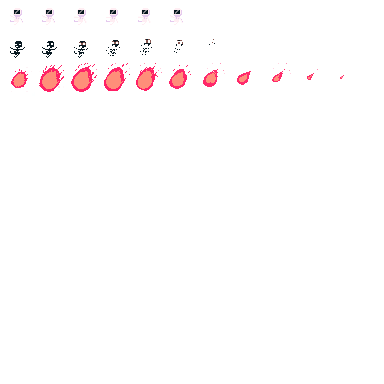
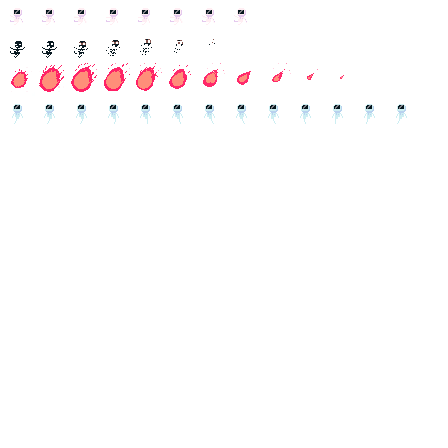
added ghost class and landing animation

diff --git a/apps/myApps/Ksc_PAlpha_Rebuild_0_0_1/src/StrandedAstronaut.h b/apps/myApps/Ksc_PAlpha_Rebuild_0_0_1/src/StrandedAstronaut.h
@@ -1,6 +1,7 @@
 #ifndef STRANDEDASTRONAUT_H
 #define STRANDEDASTRONAUT_H
 #include "Astronaut.h"
+#include "Ghost.h"
 #include "Shell.h"
 #include "ofxXmlSettings.h"
 #include <vector>
@@ -17,7 +18,30 @@ static animation_t floating =
 	-1,	/* .finalindex		(int) - the index of the final tile to draw when the animation finishes. -1 is the default so total_frames-1 will be the last frame.				*/
 	1	/* .frameskip		(int) - the incrementation of each frame. 1 should be set by default. If you wanted the animation to play backwards you could set this to -1, etc.	*/
 };
-
+static animation_t nautDeath =
+{	14,	/* .index			(int) - this is the index of the first animation frame. indicies start at 0 and go left to right, top to bottom by tileWidth on the spriteSheet		*/
+	0,	/* .frame			(int) - this is the current frame. It's an internal variable and should always be set to 0 at init													*/
+	12,	/* .totalframes		(int) - the animation length in frames																												*/
+	1,	/* .width			(int) - the width of each animation frame in tiles																									*/
+	1,	/* .height			(int) - the height of each animation frame in tiles																									*/
+	75,	/* .frameduration	(unsigned int) - how many milliseconds each frame should be on screen. Less = faster																*/
+	0,	/* .nexttick		(unsigned int) - the next time the frame should change. based on frame duration. This is an internal variable and should always be set to 0 at init	*/
+	1,	/* .loops			(int) - the number of loops to run. -1 equals infinite. This can be adjusted at runtime to pause animations, etc.									*/
+	-1,	/* .finalindex		(int) - the index of the final tile to draw when the animation finishes. -1 is the default so total_frames-1 will be the last frame.				*/
+	1	/* .frameskip		(int) - the incrementation of each frame. 1 should be set by default. If you wanted the animation to play backwards you could set this to -1, etc.	*/
+};
+static animation_t nautFire =
+{	28,	/* .index			(int) - this is the index of the first animation frame. indicies start at 0 and go left to right, top to bottom by tileWidth on the spriteSheet		*/
+	0,	/* .frame			(int) - this is the current frame. It's an internal variable and should always be set to 0 at init													*/
+	12,	/* .totalframes		(int) - the animation length in frames																												*/
+	1,	/* .width			(int) - the width of each animation frame in tiles																									*/
+	1,	/* .height			(int) - the height of each animation frame in tiles																									*/
+	75,	/* .frameduration	(unsigned int) - how many milliseconds each frame should be on screen. Less = faster																*/
+	0,	/* .nexttick		(unsigned int) - the next time the frame should change. based on frame duration. This is an internal variable and should always be set to 0 at init	*/
+	1,	/* .loops			(int) - the number of loops to run. -1 equals infinite. This can be adjusted at runtime to pause animations, etc.									*/
+	-1,	/* .finalindex		(int) - the index of the final tile to draw when the animation finishes. -1 is the default so total_frames-1 will be the last frame.				*/
+	1	/* .frameskip		(int) - the incrementation of each frame. 1 should be set by default. If you wanted the animation to play backwards you could set this to -1, etc.	*/
+};
 class StrandedAstronaut : public Astronaut {
 public:
     enum name {UNNAMED, TUTORIAL_ONE, TUTORIAL_TWO, TUTORIAL_THREE};
@@ -50,6 +74,8 @@ public:
     bool FOLLOWING_PLAYER;
     bool FOLLOWING_ASTRONAUT;
     bool THE_END;
+    bool DYING;
+    bool GHOSTLY;
     bool CAN_TALK;
     bool CAN_HIT_ASTRONAUTS;
     bool RELEASED;
@@ -66,6 +92,8 @@ public:
     int spring_spacing;
     int released_spacing;
     int no_spacing;
+
+    animation_t flameAnim;
 
     name thisAstronautIs;
 protected:

diff --git a/apps/myApps/Ksc_PAlpha_Rebuild_0_0_1/src/GameScreen.cpp b/apps/myApps/Ksc_PAlpha_Rebuild_0_0_1/src/GameScreen.cpp
@@ -71,8 +71,8 @@ void GameScreen::setup() {
     planetRenderer = new ofxSpriteSheetRenderer(1, 10000, 0, 128); //declare a new renderer with 1 layer, 10000 tiles per layer, default layer of 0, tile size of 32
     planetRenderer->loadTexture("ART/planets.png", 512, GL_NEAREST); // load the spriteSheetExample.png texture of size 256x256 into the sprite sheet. set it's scale mode to nearest since it's pixel art
 
-    nautRenderer = new ofxSpriteSheetRenderer(1, 10000, 0, 64);             /// declare a new renderer with 1 layer, 10000 tiles per layer, default layer of 0, tile size of 32
-    nautRenderer->loadTexture("ART/nauts.png", 512, GL_NEAREST);                /// load the spriteSheetExample.png texture of size 256x256 into the sprite sheet. set it's scale mode to nearest since it's pixel art
+    nautRenderer = new ofxSpriteSheetRenderer(1, 10000, 0, 32);             /// declare a new renderer with 1 layer, 10000 tiles per layer, default layer of 0, tile size of 32
+    nautRenderer->loadTexture("ART/nauts2.png", 448, GL_NEAREST);                /// load the spriteSheetExample.png texture of size 256x256 into the sprite sheet. set it's scale mode to nearest since it's pixel art
 
     ofEnableAlphaBlending(); // turn on alpha blending. important!
 
@@ -245,6 +245,7 @@ void GameScreen::update() {
             strandedAstronaut[i]->update();
 
             if (strandedAstronaut[i]->IS_DEAD) {
+                ghosts.push_back(new Ghost(strandedAstronaut[i]->pos));
                 AN_ASTRONAUT_DIED = true;
                 HIT_PAUSE = true;
                 if (strandedAstronaut[i]->FOLLOWING_PLAYER) {
@@ -266,6 +267,11 @@ void GameScreen::update() {
                 gui[i]->pos.interpolate(player.pos, 10 * dt);
             }
         }
+
+        for(int i = 0; i < ghosts.size(); i++){
+            ghosts[i]->update();
+        }
+
     camera();
 
     }
@@ -330,8 +336,17 @@ void GameScreen::renderSprites() {
     planetRenderer->update(ofGetElapsedTimeMillis());
     nautRenderer->clear(); // clear the sheet
     for (int i=0; i<strandedAstronaut.size(); i++) {
-        float scaleFactor = 1;
+        float scaleFactor = 2;
+        if (strandedAstronaut[i]->DYING){
+        nautRenderer->addCenteredTile(&strandedAstronaut[i]->flameAnim,strandedAstronaut[i]->pos.x,strandedAstronaut[i]->pos.y,-1,F_NONE,scaleFactor,255,255,255,255);
+        }
+
         nautRenderer->addCenteredTile(&strandedAstronaut[i]->anim,strandedAstronaut[i]->pos.x,strandedAstronaut[i]->pos.y,-1,F_NONE,scaleFactor,255,255,255,255);
+    }
+    for (int i = 0; i<ghosts.size();i++){
+        float scaleFactor = 2;
+        nautRenderer->addCenteredTile(&ghosts[i]->anim,ghosts[i]->pos.x,ghosts[i]->pos.y,-1,F_NONE,scaleFactor,255,255,255,ghosts[i]->opacity);
+        cout << "ADDING GHOST \n";
     }
     nautRenderer->update(ofGetElapsedTimeMillis());
 }

diff --git a/apps/myApps/Ksc_PAlpha_Rebuild_0_0_1/src/Ghost.h b/apps/myApps/Ksc_PAlpha_Rebuild_0_0_1/src/Ghost.h
@@ -1,0 +1,40 @@
+#ifndef GHOST_H
+#define GHOST_H
+#include "Astronaut.h"
+
+static animation_t ghost =
+{	42,	/* .index			(int) - this is the index of the first animation frame. indicies start at 0 and go left to right, top to bottom by tileWidth on the spriteSheet		*/
+	0,	/* .frame			(int) - this is the current frame. It's an internal variable and should always be set to 0 at init													*/
+	13,	/* .totalframes		(int) - the animation length in frames																												*/
+	1,	/* .width			(int) - the width of each animation frame in tiles																									*/
+	1,	/* .height			(int) - the height of each animation frame in tiles																									*/
+	75,	/* .frameduration	(unsigned int) - how many milliseconds each frame should be on screen. Less = faster																*/
+	0,	/* .nexttick		(unsigned int) - the next time the frame should change. based on frame duration. This is an internal variable and should always be set to 0 at init	*/
+	-1,	/* .loops			(int) - the number of loops to run. -1 equals infinite. This can be adjusted at runtime to pause animations, etc.									*/
+	-1,	/* .finalindex		(int) - the index of the final tile to draw when the animation finishes. -1 is the default so total_frames-1 will be the last frame.				*/
+	1	/* .frameskip		(int) - the incrementation of each frame. 1 should be set by default. If you wanted the animation to play backwards you could set this to -1, etc.	*/
+};
+
+class Ghost : public Astronaut
+{
+    public:
+        Ghost();
+        Ghost(ofVec2f _pos);
+
+        int opacity;
+        int opacityMod;
+
+        void setup();
+        void update();
+        void move();
+        void draw();
+
+        bool IS_DEAD;
+
+
+        virtual ~Ghost();
+    protected:
+    private:
+};
+
+#endif // GHOST_H

diff --git a/apps/myApps/Ksc_PAlpha_Rebuild_0_0_1/src/Player.h b/apps/myApps/Ksc_PAlpha_Rebuild_0_0_1/src/Player.h
@@ -127,6 +127,19 @@ static animation_t flame =
 	1	/* .frameskip		(int) - the incrementation of each frame. 1 should be set by default. If you wanted the animation to play backwards you could set this to -1, etc.	*/
 };
 
+static animation_t land =
+{	18,	/* .index			(int) - this is the index of the first animation frame. indicies start at 0 and go left to right, top to bottom by tileWidth on the spriteSheet		*/
+	0,	/* .frame			(int) - this is the current frame. It's an internal variable and should always be set to 0 at init													*/
+	6,	/* .totalframes		(int) - the animation length in frames																												*/
+	1,	/* .width			(int) - the width of each animation frame in tiles																									*/
+	1,	/* .height			(int) - the height of each animation frame in tiles																									*/
+	100,	/* .frameduration	(unsigned int) - how many milliseconds each frame should be on screen. Less = faster																*/
+	0,	/* .nexttick		(unsigned int) - the next time the frame should change. based on frame duration. This is an internal variable and should always be set to 0 at init	*/
+	1,	/* .loops			(int) - the number of loops to run. -1 equals infinite. This can be adjusted at runtime to pause animations, etc.									*/
+	-1,	/* .finalindex		(int) - the index of the final tile to draw when the animation finishes. -1 is the default so total_frames-1 will be the last frame.				*/
+	1	/* .frameskip		(int) - the incrementation of each frame. 1 should be set by default. If you wanted the animation to play backwards you could set this to -1, etc.	*/
+};
+
 class Player : public Astronaut {
 public:
     Player();

diff --git a/apps/myApps/Ksc_PAlpha_Rebuild_0_0_1/src/StrandedAstronaut.cpp b/apps/myApps/Ksc_PAlpha_Rebuild_0_0_1/src/StrandedAstronaut.cpp
@@ -53,13 +53,16 @@ StrandedAstronaut::StrandedAstronaut(ofVec2f _pos, name _name, std::vector<Gravi
     USING_GRAVITY               = true;
     CAN_TALK                    = true;
     DRAW_MESSAGE                = false;
+    DYING                       = false;
     IS_DEAD                     = false;
+    GHOSTLY                     = false;
     THE_END                     = false;
     CAN_HIT_ASTRONAUTS          = false;
     RELEASED                    = false;
 
     type = "strandedastronaut";
     anim = floating;
+    flameAnim = nautFire;
 
 	ofEnableAlphaBlending();
 	setName(_name);
@@ -102,6 +105,11 @@ void StrandedAstronaut::update() {
         displayMessage();
     }
     dialogueBubble->update();
+
+    if (anim.index == 14 && anim.frame >= 11){
+        IS_DEAD = true;
+        DYING = false;
+    }
 }
 
 void StrandedAstronaut::move() {
@@ -260,8 +268,9 @@ void StrandedAstronaut::detectGravitatorCollisions() {
                     pos.y = (sin(theta) * (planet_r + r)) + planet_pos.y;
                 }
             }
-            if (gravitator_type == "sun" || gravitator_type == "comet") {
-                IS_DEAD = true;
+            if ((gravitator_type == "sun" || gravitator_type == "comet") && DYING == false) {
+                DYING = true;
+                anim = nautDeath;
             }
             if (gravitator_type == "blackhole") {
 

diff --git a/apps/myApps/Ksc_PAlpha_Rebuild_0_0_1/src/Ghost.cpp b/apps/myApps/Ksc_PAlpha_Rebuild_0_0_1/src/Ghost.cpp
@@ -1,0 +1,60 @@
+#include "Ghost.h"
+
+
+
+
+Ghost::Ghost()
+{
+    //ctor
+}
+
+
+Ghost::Ghost(ofVec2f _pos){
+    pos = _pos;
+    setup();
+}
+
+void Ghost::setup(){
+    dir.set(0,-1);
+    v = dir * 2;
+
+    anim = ghost;
+
+    opacity = 0;
+    opacityMod = 5;
+    IS_DEAD = false;
+}
+
+void Ghost::update(){
+
+    opacity += opacityMod;
+    if (opacity >= 255){
+        opacityMod *= -1;
+    } else if (opacity < 0){
+        opacity = 0;
+        IS_DEAD = true;
+    }
+
+    move();
+
+}
+
+void Ghost::move(){
+
+        pos += v;
+
+}
+
+void Ghost::draw(){
+
+}
+
+
+
+
+
+
+Ghost::~Ghost()
+{
+    //dtor
+}

diff --git a/apps/myApps/Ksc_PAlpha_Rebuild_0_0_1/src/Player.cpp b/apps/myApps/Ksc_PAlpha_Rebuild_0_0_1/src/Player.cpp
@@ -471,6 +471,7 @@ void Player::detectGravitatorCollisions() {             ///This method only dete
                     f.set(0, 0);
                     USING_GRAVITY       = false;
                     TRAVERSE_MODE       = true;
+                    anim = land;
 
                     if (CAN_SCREEN_SHAKE) {
                         setScreenShake(true);

diff --git a/apps/myApps/Ksc_PAlpha_Rebuild_0_0_1/src/testApp.cpp b/apps/myApps/Ksc_PAlpha_Rebuild_0_0_1/src/testApp.cpp
@@ -14,7 +14,7 @@ void testApp::setup() {
     ///------------------------------
     /// YOU CAN CHANGE THESE
     ///------------------------------
-    currentScreen                   = &menuScreen;
+    currentScreen                   = &gameScreen;
     LOAD_WITH_SOUND                 = true;
 
     ///------------------------------

diff --git a/apps/myApps/Ksc_PAlpha_Rebuild_0_0_1/src/GameScreen.h b/apps/myApps/Ksc_PAlpha_Rebuild_0_0_1/src/GameScreen.h
@@ -72,6 +72,7 @@ public:
 
         std::vector<Gravitator *> gravitator;
         std::vector<StrandedAstronaut *> strandedAstronaut;
+        std::vector<Ghost *> ghosts;
         std::vector<GUI *> gui;
         int astronautsFollowing;
         Player player;
